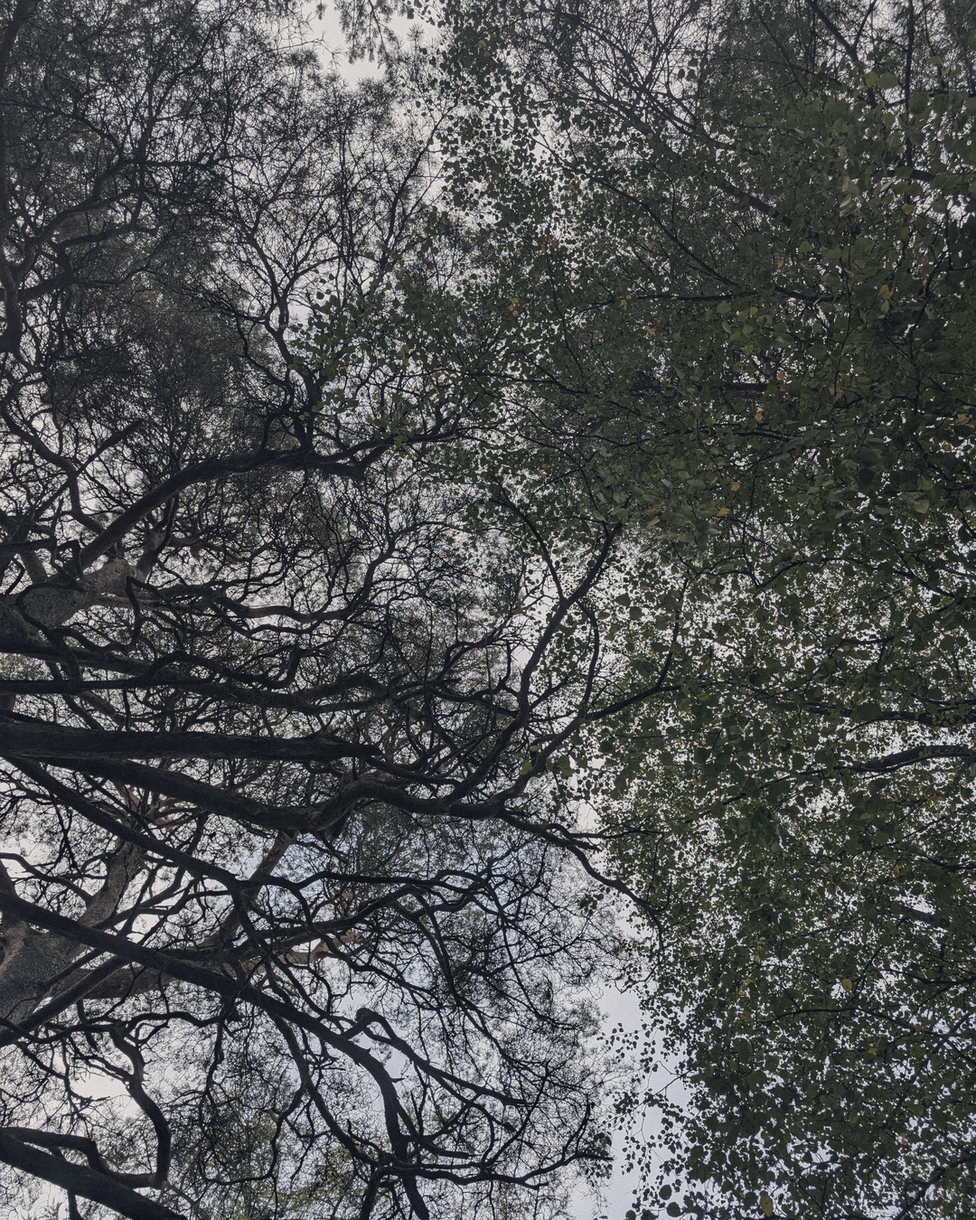
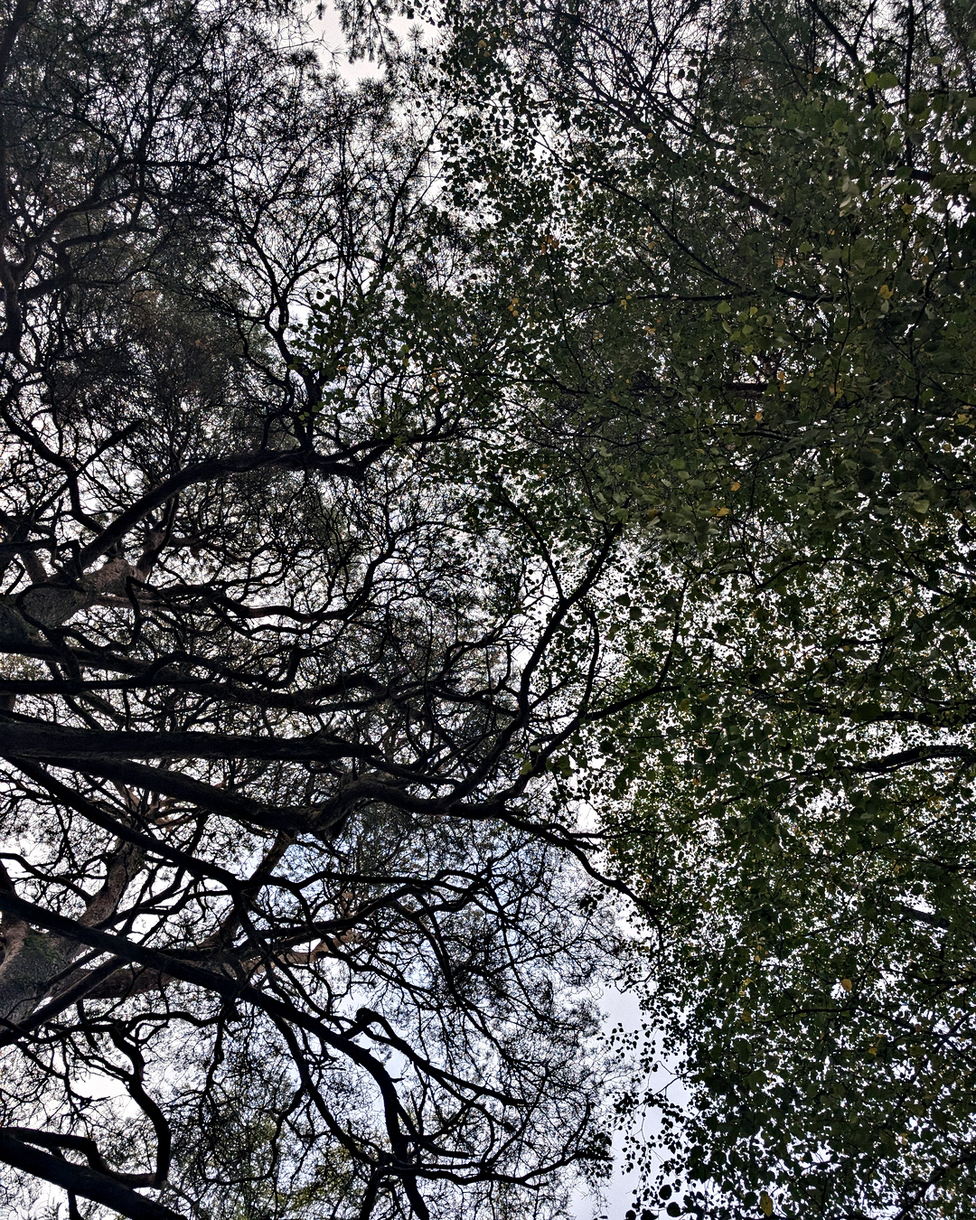
Regrade photos: richer contrast, vibrance and clarity
Claude-Session: https://claude.ai/code/session_01WN7Hg8mhffnKqwfwUx9CEd

diff --git a/reel/scripts/grade_photos.py b/reel/scripts/grade_photos.py
@@ -13,23 +13,30 @@ def crop45(im):
 def lum(a): return (.2126*a[...,0]+.7152*a[...,1]+.0722*a[...,2])[...,None]
 def sat(a,s): L=lum(a); return L+(a-L)*s
 def curve(a,xs,ys): return np.interp(np.clip(a,0,1),xs,ys)
+import cv2
+def vibrance(a,amt):
+    L=lum(a); c=np.abs(a-L).max(-1,keepdims=True)              # current saturation
+    return L+(a-L)*(1+amt*(1-np.clip(c*2.5,0,1)))               # boost muted colours most
+def clarity(a,amt,r=25):
+    L=lum(a)[...,0]; bl=cv2.GaussianBlur(L,(0,0),r)
+    return a+amt*(L-bl)[...,None]                               # local contrast, no halos at this strength
 def true_grade(im, ref_box, wb_strength, out):
     a=np.asarray(im).astype(np.float32)/255
     x0,y0,x1,y1=[int(v) for v in (ref_box[0]*im.width,ref_box[1]*im.height,ref_box[2]*im.width,ref_box[3]*im.height)]
     r=a[y0:y1,x0:x1].reshape(-1,3).mean(0); g=r[1]
     gain=1+wb_strength*(g/r-1); a=a*gain                       # neutralise lamp cast
     p99=np.percentile(lum(a),99.5); a=a*min(0.93/p99,1.9)      # set exposure so whites land ~93%
-    a=curve(a,[0,.04,.25,.5,.75,1],[.012,.045,.24,.51,.77,.975])  # gentle S, no crushed blacks
-    a=sat(a,1.08)
+    a=curve(a,[0,.04,.25,.5,.75,1],[.008,.03,.21,.51,.80,.98])   # firmer S, blacks kept off zero
+    a=clarity(a,0.35); a=vibrance(a,0.45); a=sat(a,1.06)
     Image.fromarray((np.clip(a,0,1)*255+.5).astype(np.uint8)).save(O+out,quality=95,subsampling=0,icc_profile=srgb)
     print(out,'gain',gain.round(3),'exp',round(min(0.93/p99,1.9),2))
 def inspo_grade(im,out):
     a=np.asarray(im).astype(np.float32)/255
     a=a*(0.93/max(np.percentile(lum(a),99.5),0.5))
-    a=curve(a,[0,.2,.5,.8,1],[.06,.22,.50,.76,.93])              # lifted blacks, soft highlights
-    a=sat(a,0.88)
-    L=lum(a); a=a+(1-L)*np.array([-.012,.004,.022])+L*np.array([.022,.008,-.02])  # cool shadows, warm highs
-    a=a+rng.normal(0,.012,a.shape[:2])[...,None]                 # fine grain
+    a=curve(a,[0,.2,.5,.8,1],[.025,.18,.50,.80,.96])             # richer contrast, slight lift only
+    a=clarity(a,0.4); a=vibrance(a,0.5); a=sat(a,1.04)
+    L=lum(a); a=a+(1-L)*np.array([-.008,.002,.015])+L*np.array([.018,.008,-.015])  # cool shadows, warm highs
+    a=a+rng.normal(0,.009,a.shape[:2])[...,None]                 # fine grain
     Image.fromarray((np.clip(a,0,1)*255+.5).astype(np.uint8)).save(O+out,quality=95,subsampling=0,icc_profile=srgb)
     print(out)
 true_grade(crop45(Image.open(I+'6.jpg').convert('RGB')),(.05,.05,.30,.25),0.5,'painting_easel.jpg')
